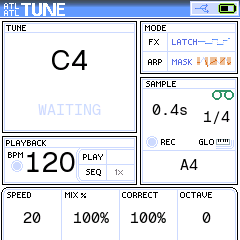
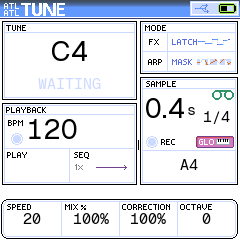
Match the new UI slices and enlarge the sample length

diff --git a/firmware/apps/atlatl/app.c b/firmware/apps/atlatl/app.c
@@ -399,6 +399,16 @@ static void draw_bpm_blink(int beat)
                 FW_UI_ON_BPM_BLINK, beat);
 }
 
+/* The sample length is the one large value outside the TUNE panel. The small "s" keeps the
+ * unit without making "0.4s" wider than the 54 px box. */
+static void draw_sample_length(const char *value)
+{
+    ui_text(FW_UI_SAMPLE_LEN_X, FW_UI_SAMPLE_LEN_Y, FW_UI_SAMPLE_LEN_W - 10u, FW_UI_SAMPLE_LEN_H,
+            &FONT_L, value, C_UI_ON, 1);
+    ui_text(FW_UI_SAMPLE_LEN_X + FW_UI_SAMPLE_LEN_W - 10u, FW_UI_SAMPLE_LEN_Y, 10u, FW_UI_SAMPLE_LEN_H,
+            &FONT_S, "s", C_UI_ON, 1);
+}
+
 static void draw_sample(uint32_t frames, int recording)
 {
     char a[16], b[8], n[8];
@@ -418,9 +428,7 @@ static void draw_sample(uint32_t frames, int recording)
     { char c[8]; put_u(c, (int32_t)t / 10); str_cat(a, c, sizeof a); }
     str_cat(a, ".", sizeof a);
     { char c[8]; put_u(c, (int32_t)t % 10); str_cat(a, c, sizeof a); }
-    str_cat(a, "s", sizeof a);
-    ui_text(FW_UI_SAMPLE_LEN_X, FW_UI_SAMPLE_LEN_Y, FW_UI_SAMPLE_LEN_W, FW_UI_SAMPLE_LEN_H,
-            &FONT_S, a, C_UI_ON, 1);
+    draw_sample_length(a);
 
     if (recording) {
         str_cpy(b, "---", sizeof b);
@@ -493,7 +501,7 @@ static void draw_usb(int up)
 static void draw_battery(uint32_t raw, int charging)
 {
     int pct = battery_pct(raw);
-    uint32_t inner = FW_UI_BATTERY_W - 6u;
+    uint32_t inner = FW_UI_BATTERY_W - 8u;   /* 3 px left, 5 px right */
     uint32_t w = 1u + (uint32_t)pct * (inner - 1u) / 100u;   /* 0%: the leftmost pixel column */
     if (charging)
         ui_slice(FW_UI_BATTERY_X, FW_UI_BATTERY_Y, FW_UI_BATTERY_W, FW_UI_BATTERY_H, FW_UI_ON_BATTERY);

diff --git a/tests/ui_test.py b/tests/ui_test.py
@@ -101,7 +101,7 @@ screen {OUT}/batterycharge.ppm
     img = read_ppm(OUT / "battery100.ppm")
     full = black(img, bx + 3, by + 3, bx + bw - 3, by + bh - 3)
     assert empty == bh - 6, f"0% battery fill: {empty} black pixels"
-    assert full == (bw - 6) * (bh - 6), f"100% battery fill: {full} black pixels"
+    assert full == (bw - 8) * (bh - 6), f"100% battery fill: {full} black pixels"
     img = read_ppm(OUT / "batterycharge.ppm")
     assert green(img, bx, by, bx + bw, by + bh), "charging battery mask was not drawn"
 
